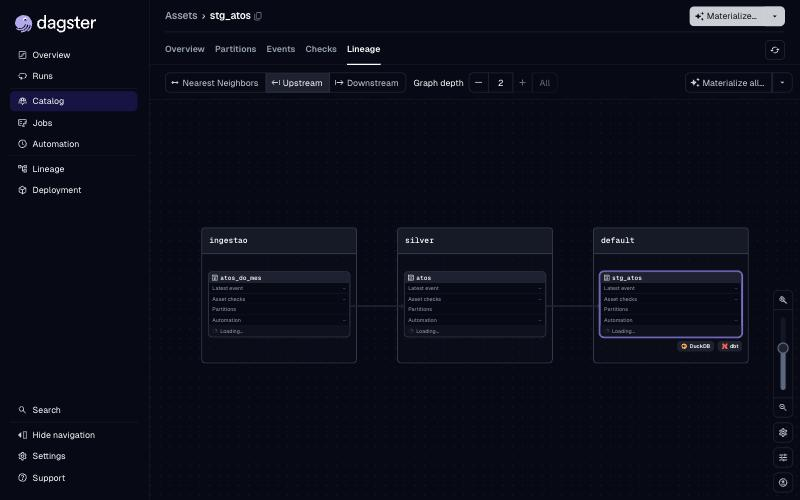
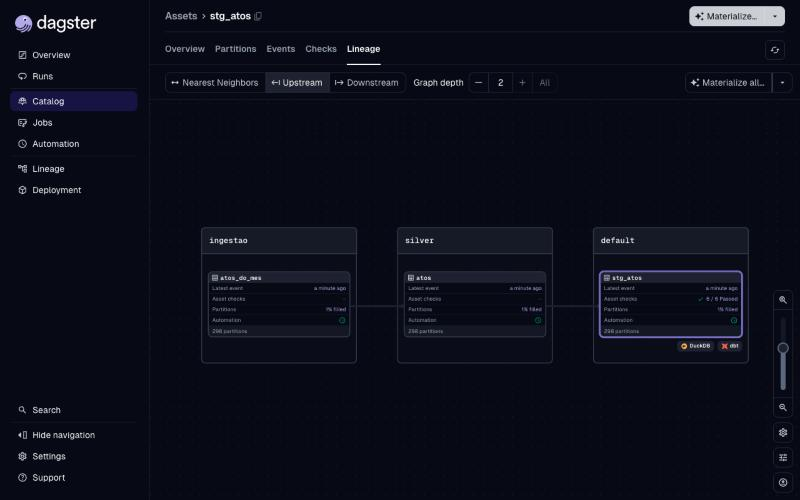
fix(orquestracao): aplica a revisão do #80
Provas com horário, causa e run id, num arquivo novo por execução; as de 08/11
refeitas dos logs dos runs, com cabeçalho dizendo isso. Agenda ligada no fuso de
Brasília. AI-USAGE corrigido.

diff --git a/src/orquestracao/__init__.py b/src/orquestracao/__init__.py
@@ -13,7 +13,8 @@ DBT = DbtProject(project_dir=Path("/app/dbt"), profiles_dir=Path("/app/dbt"))
 DBT.prepare_if_dev()
 
 # O mês só existe nos dados abertos depois que acaba: a última partição é o mês passado.
-MENSAL = dg.MonthlyPartitionsDefinition(start_date="2002-01-01")
+# O fuso das partições é também o da agenda: 6h de Brasília, não de UTC.
+MENSAL = dg.MonthlyPartitionsDefinition(start_date="2002-01-01", timezone="America/Sao_Paulo")
 # A Imprensa Nacional e o banco falham de vez em quando; 30 s dá tempo de voltar.
 RETRY = dg.RetryPolicy(max_retries=3, delay=30)
 
@@ -52,6 +53,8 @@ defs = dg.Definitions(
     assets=[atos_do_mes, silver_atos, gold],
     jobs=[mensal],
     # dia 15: o ZIP do mês anterior costuma sair por volta do dia 13 (setembro saiu em 13/10).
-    schedules=[dg.build_schedule_from_partitioned_job(mensal, day_of_month=15, hour_of_day=6)],
+    # Ligada desde o início: com o make orquestrador no ar, o daemon dispara o mês anterior sozinho.
+    schedules=[dg.build_schedule_from_partitioned_job(mensal, day_of_month=15, hour_of_day=6,
+                                                      default_status=dg.DefaultScheduleStatus.RUNNING)],
     resources={"dbt": DbtCliResource(project_dir=DBT)},
 )

diff --git a/docs/planos/2026-11-03-e3-camada-analitica.md b/docs/planos/2026-11-03-e3-camada-analitica.md
@@ -818,7 +818,7 @@ git add dbt && git diff --cached --stat
 ### Tarefa 6: orquestração com Dagster, retry e backfill
 
 **Arquivos:**
-- Criar: `src/orquestracao/__init__.py`, `scripts/demo_retry.sh`, `scripts/demo_backfill.sh`
+- Criar: `src/orquestracao/__init__.py`, `scripts/demo_retry.sh`, `scripts/demo_backfill.sh`, `scripts/eventos_do_run.sh`
 - Modificar: `Makefile` (alvos `orquestrador`, `demo-retry`, `demo-backfill`), `docker-compose.yml` (o Dagster no serviço `orquestrador`)
 
 **Interfaces:**
@@ -864,7 +864,8 @@ DBT = DbtProject(project_dir=Path("/app/dbt"), profiles_dir=Path("/app/dbt"))
 DBT.prepare_if_dev()
 
 # O mês só existe nos dados abertos depois que acaba: a última partição é o mês passado.
-MENSAL = dg.MonthlyPartitionsDefinition(start_date="2002-01-01")
+# O fuso das partições é também o da agenda: 6h de Brasília, não de UTC.
+MENSAL = dg.MonthlyPartitionsDefinition(start_date="2002-01-01", timezone="America/Sao_Paulo")
 # A Imprensa Nacional e o banco falham de vez em quando; 30 s dá tempo de voltar.
 RETRY = dg.RetryPolicy(max_retries=3, delay=30)
 
@@ -903,7 +904,9 @@ defs = dg.Definitions(
     assets=[atos_do_mes, silver_atos, gold],
     jobs=[mensal],
     # dia 15: o ZIP do mês anterior costuma sair por volta do dia 13 (setembro saiu em 13/10).
-    schedules=[dg.build_schedule_from_partitioned_job(mensal, day_of_month=15, hour_of_day=6)],
+    # Ligada desde o início: com o make orquestrador no ar, o daemon dispara o mês anterior sozinho.
+    schedules=[dg.build_schedule_from_partitioned_job(mensal, day_of_month=15, hour_of_day=6,
+                                                      default_status=dg.DefaultScheduleStatus.RUNNING)],
     resources={"dbt": DbtCliResource(project_dir=DBT)},
 )
 ```
@@ -945,11 +948,36 @@ Abra http://localhost:3000. Esperado: `atos_do_mes`, depois `silver/atos`, depoi
 
 - [ ] **Passo 4: o backfill**
 
+Os dois scripts leem os eventos de cada run com `scripts/eventos_do_run.sh`:
+
+```bash
+#!/usr/bin/env bash
+# Eventos de passo e de run de um run do Dagster, com horário (UTC) e a causa de cada falha, lidos do log
+# que o Dagster grava durante o run. A saída do `dagster asset materialize` não traz os eventos de passo,
+# porque cada passo roda noutro processo. Depois, o resumo do persist e o erro dele, dos compute logs.
+# Uso: bash scripts/eventos_do_run.sh RUN_ID
+set -euo pipefail
+cd "$(dirname "$0")/.."
+run=${1:?run id}
+sqlite3 "data/dagster/history/runs/$run.db" "
+  select substr(timestamp, 1, 19) || ' ' || replace(dagster_event_type, 'PIPELINE_', 'RUN_')
+         || coalesce(' ' || step_key, '')
+         || coalesce(' | causa: ' || trim(json_extract(event, '$.dagster_event.event_specific_data.error.cause.message'), char(10)), '')
+  from event_logs
+  where dagster_event_type in ('STEP_START','STEP_FAILURE','STEP_UP_FOR_RETRY','STEP_RESTARTED','STEP_SUCCESS',
+                               'PIPELINE_SUCCESS','PIPELINE_FAILURE')
+  order by id"
+cat data/dagster/storage/"$run"/compute_logs/*.err 2>/dev/null \
+  | grep -oE "done gravadas.*|run aborted err=.*" | sed -e 's/^done /persist: /' -e 's/^run aborted /persist falhou: /' || true
+```
+
 `scripts/demo_backfill.sh`:
 
 ```bash
 #!/usr/bin/env bash
 # Backfill de um intervalo de meses pelo Dagster: um run por mês, em ordem, cada um com retry.
+# Em sequência de propósito: a silver (Delta) e a gold (DuckDB, um escritor só) não aguentam runs em paralelo.
+# Cada execução grava um arquivo novo, com data e hora no nome: uma prova já versionada nunca é sobrescrita.
 # Uso: bash scripts/demo_backfill.sh 2026-07 2026-09
 set -euo pipefail
 cd "$(dirname "$0")/.."
@@ -957,22 +985,19 @@ de=${1:?mês inicial AAAA-MM}; ate=${2:?mês final AAAA-MM}
 test -f dbt/target/manifest.json || { echo "falta o manifesto do dbt: rode make gold antes"; exit 1; }
 command -v sqlite3 >/dev/null || { echo "falta o sqlite3, que lê o log de eventos do Dagster"; exit 1; }
 mkdir -p data/gold data/dagster docs/adr/medicoes/0009-gold
-saida=docs/adr/medicoes/0009-gold/backfill-$de-a-$ate.txt
-[[ -e "$saida" ]] && saida=${saida%.txt}-de-novo.txt   # a segunda rodada, que prova que nada duplica
-: > "$saida"
+saida=docs/adr/medicoes/0009-gold/backfill-$de-a-$ate-$(date -u +%Y%m%dT%H%M%SZ).txt
+echo "# make demo-backfill DE=$de ATE=$ate, $(date -u '+%Y-%m-%d %H:%M:%S') UTC, gerado por scripts/demo_backfill.sh" | tee "$saida"
 mes=$de
 while [[ "$mes" < "$ate" || "$mes" == "$ate" ]]; do
-  echo "==> partição $mes-01" | tee -a "$saida"
   log=$(DOCKER_UID=$(id -u) DOCKER_GID=$(id -g) docker compose --progress quiet run --rm -T orquestrador \
     dagster asset materialize -m orquestracao --select '*' --partition "$mes-01" 2>&1) || { tail -30 <<<"$log"; exit 1; }
-  run=$(grep -m1 -oE '[0-9a-f]{8}(-[0-9a-f]{4}){3}-[0-9a-f]{12}' <<<"$log")
-  # Cada passo roda noutro processo: os eventos dele ficam no log do run, e a saída do persist nos compute logs.
-  sqlite3 "data/dagster/history/runs/$run.db" \
-    "select replace(dagster_event_type, 'PIPELINE_', 'RUN_') || ' ' || coalesce(step_key, '') from event_logs where dagster_event_type in ('STEP_SUCCESS','STEP_FAILURE','STEP_UP_FOR_RETRY','PIPELINE_SUCCESS','PIPELINE_FAILURE') order by id" | tee -a "$saida"
-  grep -ho "done gravadas.*" data/dagster/storage/"$run"/compute_logs/*.err | sed 's/^done /persist: /' | tee -a "$saida"
+  # O run id está em toda linha de evento da saída: "... - __ASSET_JOB - <run id> - ...".
+  run=$(grep -m1 -oE '__ASSET_JOB - [0-9a-f-]{36}' <<<"$log" | cut -d' ' -f3)
+  echo "==> partição $mes-01, run $run" | tee -a "$saida"
+  bash scripts/eventos_do_run.sh "$run" | tee -a "$saida"
   mes=$(date -j -v+1m -f "%Y-%m-%d" "$mes-01" +%Y-%m 2>/dev/null || date -d "$mes-01 +1 month" +%Y-%m)
 done
-echo "==> atos por mês depois do backfill" | tee -a "$saida"
+echo "==> atos do DOU por mês depois do backfill" | tee -a "$saida"
 docker compose exec -T db sh -c 'psql -U "$POSTGRES_USER" -d "$POSTGRES_DB" -tAc "select date_trunc('"'"'month'"'"', data_publicacao)::date, count(*) from ato where origem = '"'"'DOU'"'"' group by 1 order by 1"' | tee -a "$saida"
 ```
 
@@ -982,9 +1007,9 @@ Rode com três meses. O bronze já tem agosto e setembro, então só julho é ba
 make demo-backfill DE=2026-07 ATE=2026-09
 ```
 
-Os eventos de cada passo não aparecem na saída do `dagster asset materialize`: cada passo roda noutro processo. Os scripts leem o log de eventos do run (`data/dagster/history/runs/<run>.db`, com `sqlite3`) e o resumo do `persist` nos compute logs. Nesse log, o fim do run se chama `PIPELINE_SUCCESS`; os scripts mostram como `RUN_SUCCESS`.
+Rode pelo script, não pela interface: um backfill pela interface dispara as partições em paralelo, e a silver (Delta) e a gold (DuckDB, um escritor só) não aguentam isso. Os eventos de cada passo não aparecem na saída do `dagster asset materialize`: cada passo roda noutro processo. Os scripts leem o log de eventos do run (`data/dagster/history/runs/<run>.db`, com `sqlite3`) e o resumo do `persist` nos compute logs. Nesse log, o fim do run se chama `PIPELINE_SUCCESS`; os scripts mostram como `RUN_SUCCESS`.
 
-Esperado: `RUN_SUCCESS` nas três partições, e julho, agosto e setembro na contagem final. Rodar de novo não duplica nada: o persist grava `inalteradas`. Essa segunda rodada também vai para o ADR, em `backfill-…-de-novo.txt`.
+Esperado: `RUN_SUCCESS` nas três partições, e julho, agosto e setembro na contagem final. Rodar de novo não duplica nada: o persist grava `inalteradas`. Essa segunda rodada também vai para o ADR. Cada execução grava um arquivo novo, com data e hora no nome, então nenhuma prova versionada é sobrescrita.
 
 Resultado em 08/11/2026: o ZIP de julho tem 555 MB. A primeira rodada gravou 161 atos de julho e 132 de setembro, e agosto ficou `inalteradas=96`; a segunda deu `gravadas=0` nos três meses. Levou 3 min 8 s com o download e 1 min 38 s sem ele.
 
@@ -996,17 +1021,16 @@ Resultado em 08/11/2026: o ZIP de julho tem 555 MB. A primeira rodada gravou 161
 #!/usr/bin/env bash
 # Derruba o banco, dispara um mês no Dagster e religa o banco antes do retry: a primeira tentativa
 # falha, o RetryPolicy (30 s) tenta de novo e passa. O mês usado já está no bronze: nada é baixado.
+# Atenção: o Postgres é o mesmo do pgAdmin e do CDC, que ficam sem banco por cerca de 1 minuto.
+# Cada execução grava um arquivo novo, com data e hora no nome.
 set -euo pipefail
 cd "$(dirname "$0")/.."
 MES=${MES:-2026-08}
 mkdir -p data/dagster/history/runs docs/adr/medicoes/0009-gold
-saida=docs/adr/medicoes/0009-gold/retry-$MES.txt
+saida=docs/adr/medicoes/0009-gold/retry-$MES-$(date -u +%Y%m%dT%H%M%SZ).txt
 test -f dbt/target/manifest.json || { echo "falta o manifesto do dbt: rode make gold antes"; exit 1; }
 command -v sqlite3 >/dev/null || { echo "falta o sqlite3, que lê o log de eventos do Dagster"; exit 1; }
-eventos() {  # os eventos de passo e de run, do log que o Dagster grava durante o run
-  sqlite3 "$1" "select replace(dagster_event_type, 'PIPELINE_', 'RUN_') || ' ' || coalesce(step_key, '') from event_logs where dagster_event_type in ('STEP_START','STEP_FAILURE','STEP_UP_FOR_RETRY','STEP_RESTARTED','STEP_SUCCESS','PIPELINE_SUCCESS','PIPELINE_FAILURE') order by id"
-}
-marca=$(mktemp)   # o run desta demonstração é o único log de eventos mais novo que esta marca
+marca=$(mktemp)
 trap 'docker compose start db >/dev/null; rm -f "$marca"' EXIT   # o banco volta mesmo se o script cair
 docker compose stop db
 DOCKER_UID=$(id -u) DOCKER_GID=$(id -g) docker compose --progress quiet run --rm -T --no-deps orquestrador \
@@ -1014,16 +1038,22 @@ DOCKER_UID=$(id -u) DOCKER_GID=$(id -g) docker compose --progress quiet run --rm
 pid=$!
 # Só religa o banco depois que a primeira tentativa cair: o pip install leva uns 30 s, e um tempo fixo
 # pode religar cedo demais. O retry espera 30 s, tempo de o Postgres subir.
-db=""
+# shortcut: o run da demonstração é o primeiro log de eventos mais novo que a marca; não rode a agenda
+# nem a interface ao mesmo tempo.
+run=""
 for _ in $(seq 180); do
-  db=${db:-$(find data/dagster/history/runs -name '*.db' -newer "$marca" | head -1)}
-  [[ -n "$db" ]] && eventos "$db" 2>/dev/null | grep -q STEP_UP_FOR_RETRY && break
+  if [[ -z "$run" ]]; then
+    db=$(find data/dagster/history/runs -name '*.db' -newer "$marca" | head -1)
+    [[ -n "$db" ]] && run=$(basename "$db" .db)
+  fi
+  [[ -n "$run" ]] && bash scripts/eventos_do_run.sh "$run" 2>/dev/null | grep -q STEP_UP_FOR_RETRY && break
   sleep 1
 done
 docker compose start db
 rc=0; wait "$pid" || rc=$?   # sem o || o set -e encerraria o script antes da conferência
-[[ -n "$db" ]] || { echo "FALHOU: o run não começou"; tail -20 "$saida.log"; exit 1; }
-{ echo "run $(basename "$db" .db), mês $MES, banco parado antes da primeira tentativa"; eventos "$db"; } > "$saida"
+[[ -n "$run" ]] || { echo "FALHOU: o run não começou"; tail -20 "$saida.log"; exit 1; }
+{ echo "# make demo-retry, mês $MES, run $run, banco parado antes da primeira tentativa (horários em UTC)"
+  bash scripts/eventos_do_run.sh "$run"; } > "$saida"
 rm -f "$saida.log"
 cat "$saida"
 grep -q STEP_UP_FOR_RETRY "$saida" || { echo "FALHOU: não houve retry"; exit 1; }

diff --git a/AI-USAGE.md b/AI-USAGE.md
@@ -562,6 +562,6 @@ tradução. Registre o que produziu artefato ou mudou uma decisão.
 - **Ferramenta:** Claude Code (Claude Opus 5.5)
 - **Onde:** `src/orquestracao/__init__.py`, `scripts/demo_backfill.sh`, `scripts/demo_retry.sh`, `docker-compose.yml`, `Makefile`, `docs/adr/medicoes/0009-gold/` (`backfill-*.txt`, `retry-2026-08.txt`), `docs/planos/2026-11-03-e3-camada-analitica.md`
 - **O que foi pedido:** planejar e executar a Tarefa 6 do plano da E3: o grafo mensal no Dagster, da ingestão à gold, com retry, agenda no dia 15 e as demonstrações de retry e de backfill.
-- **O que foi aproveitado:** o grafo, os alvos `orquestrador`, `demo-retry` e `demo-backfill`, e os dois scripts. **Decidido pela IA**, a revisar: o backfill usa julho a setembro de 2026, para baixar só julho; os scripts leem o log de eventos do run em SQLite, porque a saída do `dagster asset materialize` não mostra os eventos de passo; o retry religa o banco quando aparece o `STEP_UP_FOR_RETRY`, em vez de esperar um tempo fixo. Os dois arquivos do backfill foram montados com os logs dos seis runs já executados, porque a primeira versão do script não guardava os eventos de passo.
-- **Como foi verificado:** `dagster definitions validate` em `Validation successful`; o grafo carregado em Python mostra `atos_do_mes` → `silver/atos` → `stg_atos` e a agenda `0 6 15 * *`; o backfill materializou os três assets nas três partições, e a segunda rodada deu `gravadas=0` com as mesmas contagens no banco (161, 96, 132); o `demo-retry` mostrou `STEP_UP_FOR_RETRY` e `RUN_SUCCESS`, com a primeira tentativa caindo por falta do host `db`. A interface em http://localhost:3000 não foi aberta.
-- **Quem revisou:** pendente — a Luiza, no PR.
+- **O que foi aproveitado:** o grafo, os alvos `orquestrador`, `demo-retry` e `demo-backfill`, e os dois scripts. **Decidido pela IA**, a revisar: o backfill usa julho a setembro de 2026, para baixar só julho; os scripts leem o log de eventos do run em SQLite, porque a saída do `dagster asset materialize` não mostra os eventos de passo; o retry religa o banco quando aparece o `STEP_UP_FOR_RETRY`, em vez de esperar um tempo fixo. A agenda nasce ligada e no fuso de Brasília. Depois da revisão do Moura, as provas de 08/11 foram refeitas a partir dos logs dos runs que de fato rodaram, cada uma com um cabeçalho dizendo isso, porque as versões do script que rodaram não guardavam os eventos de passo, o horário nem a causa. Os scripts passaram a gravar um arquivo novo por execução, com data e hora no nome.
+- **Como foi verificado:** `dagster definitions validate` em `Validation successful`; o grafo carregado em Python mostra `atos_do_mes` → `silver/atos` → `stg_atos` e a agenda `0 6 15 * *`; o backfill materializou os três assets nas três partições, e a segunda rodada deu `gravadas=0` com as mesmas contagens no banco (161, 96, 132); o `demo-retry` mostrou `STEP_UP_FOR_RETRY` e `RUN_SUCCESS`, com a primeira tentativa caindo por falta do host `db`. O Claude Code abriu a interface em http://localhost:3000 no navegador do app, e tirou os prints `grafo-dagster.jpg` (aba Lineage do `stg_atos`) e `agenda-dagster.jpg` (agenda ligada, 06:00 GMT-3 no dia 15), refeitos às 00:07 UTC de 09/11 depois da revisão do Moura; o primeiro print, de 08/11, tinha os cartões em "Loading…". Para isso, fechou o convite de newsletter do Dagster em "Skip", sem preencher nada. O backfill pela interface, com o daemon, não foi testado.
+- **Quem revisou:** a Luiza autorizou cada passo e revisou o diff antes dos commits; o Moura revisou o PR #80, e as correções da revisão dele estão no PR.
